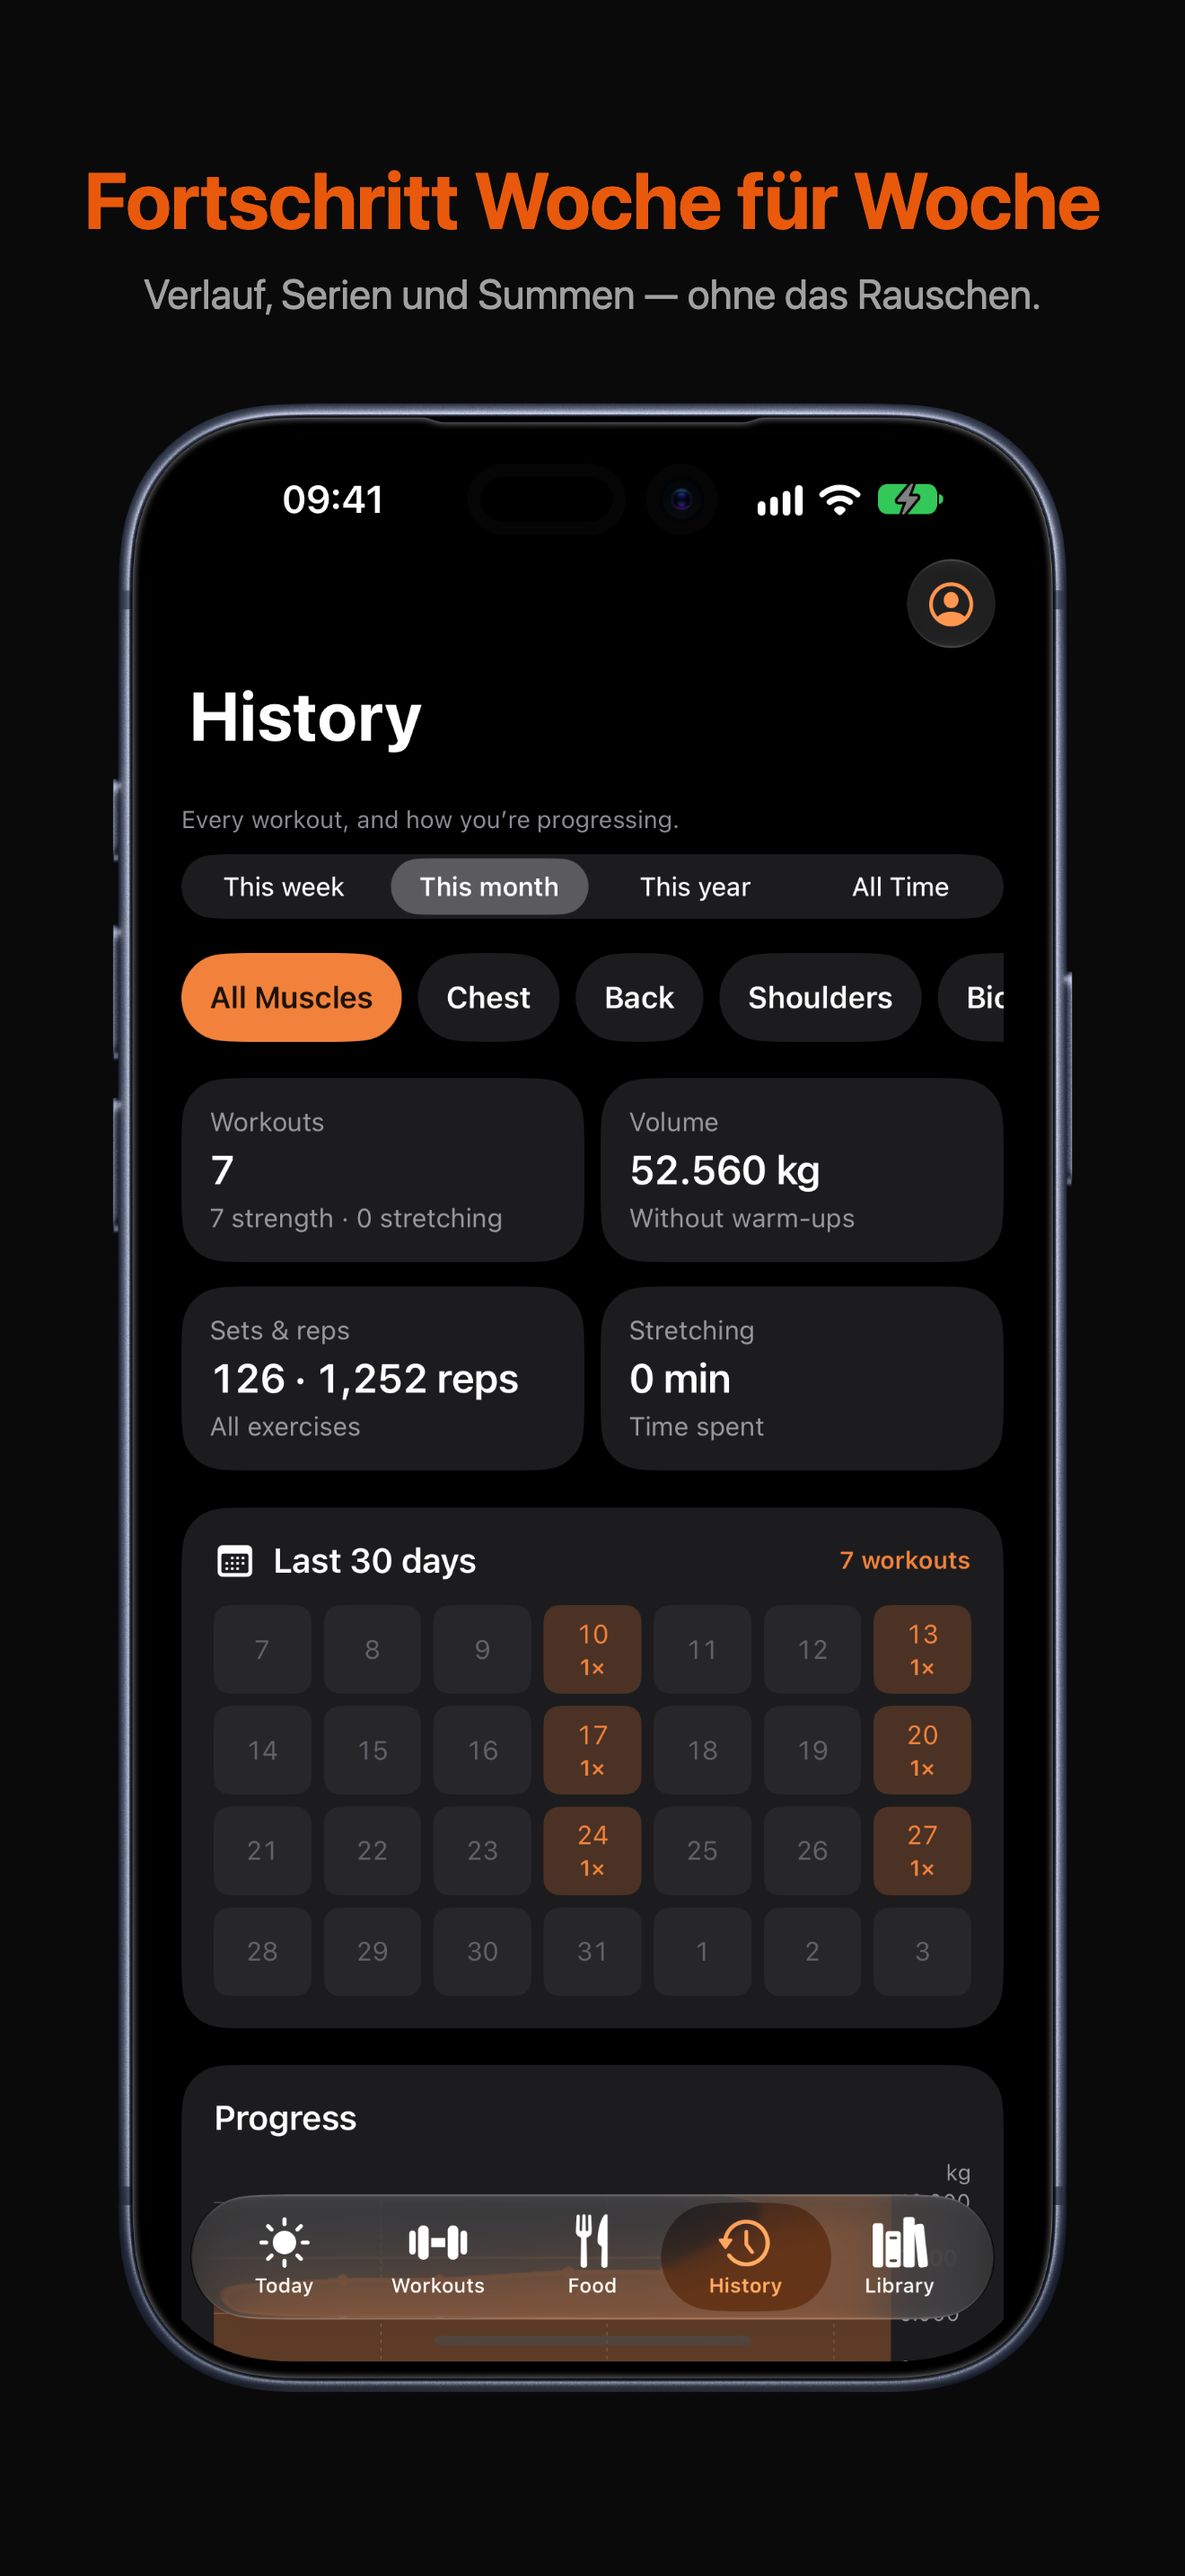
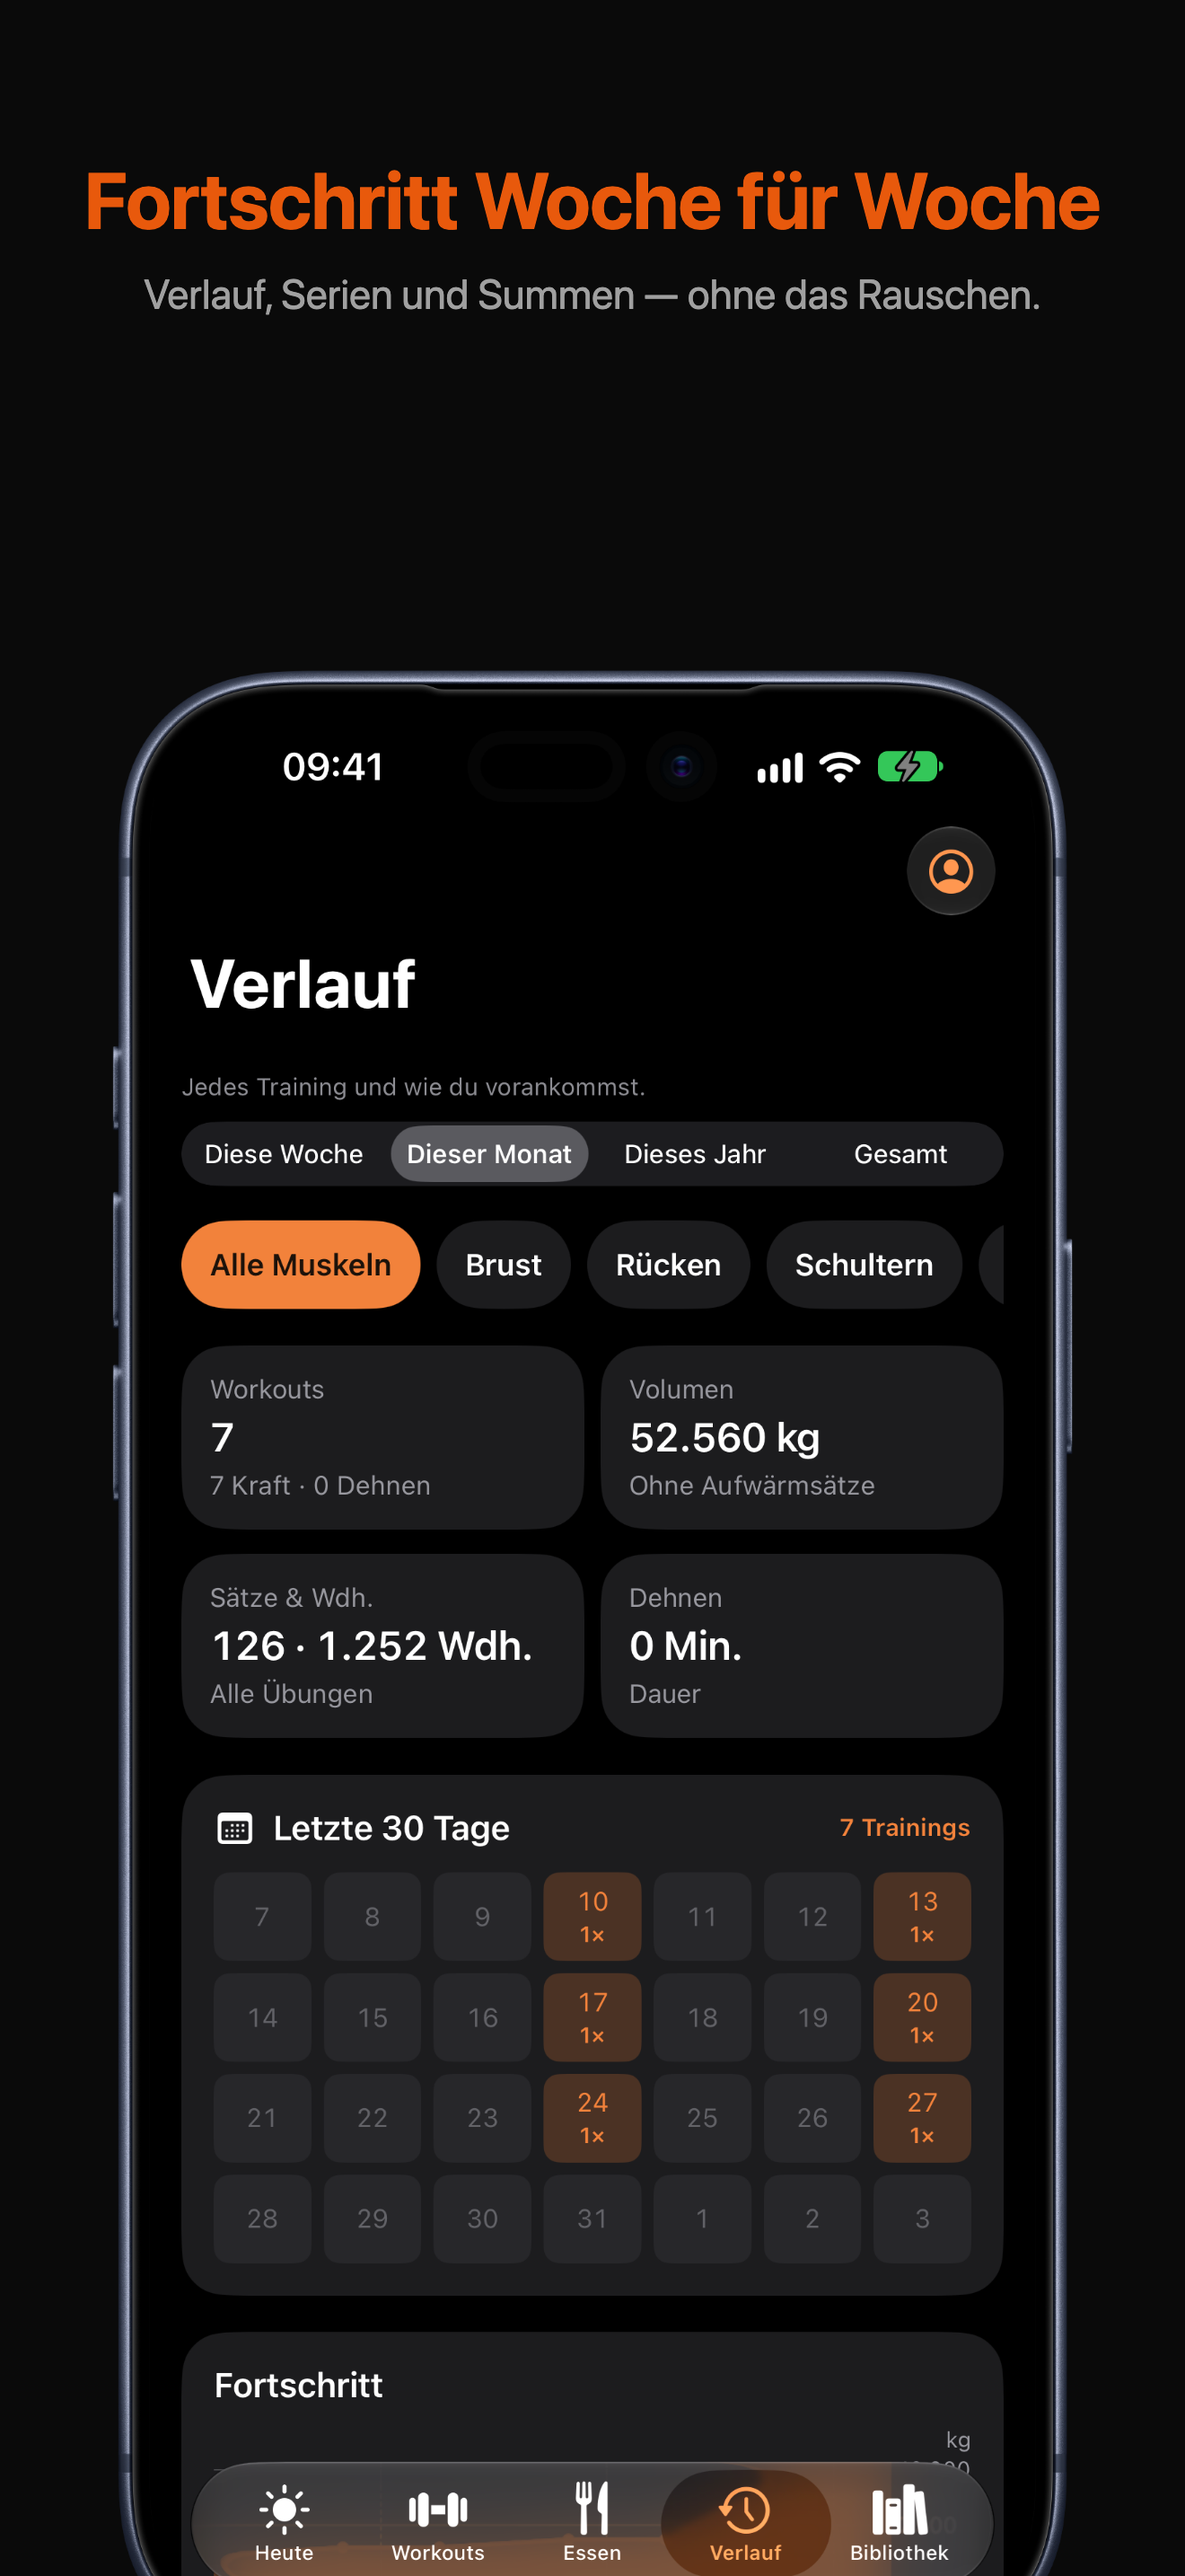
fix(apple): run marketing shots in the right locale and fill the watch canvas

diff --git a/apps/apple/LukiFittiIOSUITests/MarketingScreenshotsUITests.swift b/apps/apple/LukiFittiIOSUITests/MarketingScreenshotsUITests.swift
@@ -6,7 +6,7 @@ import XCTest
 /// than capturing the wrong screen. `*En` / `*De` variants run in the matching locale.
 final class MarketingScreenshotsUITests: XCTestCase {
     /// Locale comes from the method name (`…En` / `…De`) — env vars don't reach the runner.
-    private var lang: String { name.hasSuffix("De") ? "de" : "en" }
+    private var lang: String { name.contains("De]") ? "de" : "en" }
     private var tabLibrary: String { lang == "de" ? "Bibliothek" : "Library" }
     private var tabHistory: String { lang == "de" ? "Verlauf" : "History" }
     private var tabFood: String { lang == "de" ? "Essen" : "Food" }
@@ -30,6 +30,12 @@ final class MarketingScreenshotsUITests: XCTestCase {
                 .appendingPathComponent("marketing/assets/demo-meal.jpg")
                 .path
         app.launch()
+        // Guard the locale before any capture — the wrong language fails the test.
+        let expectedTab = lang == "de" ? "Heute" : "Today"
+        XCTAssertTrue(
+            app.tabBars.buttons[expectedTab].firstMatch.waitForExistence(timeout: 15),
+            "expected \(lang) tab '\(expectedTab)'"
+        )
         return app
     }
 

diff --git a/apps/apple/LukiFittiWatchUITests/MarketingScreenshotsUITests.swift b/apps/apple/LukiFittiWatchUITests/MarketingScreenshotsUITests.swift
@@ -3,7 +3,7 @@ import XCTest
 /// Watch marketing shot (screenshots.json `watch`): an active workout showing live bpm.
 /// `…En` / `…De` variants run in the matching locale.
 final class MarketingScreenshotsUITests: XCTestCase {
-    private var lang: String { name.hasSuffix("De") ? "de" : "en" }
+    private var lang: String { name.contains("De]") ? "de" : "en" }
 
     @MainActor
     private func shot() {
